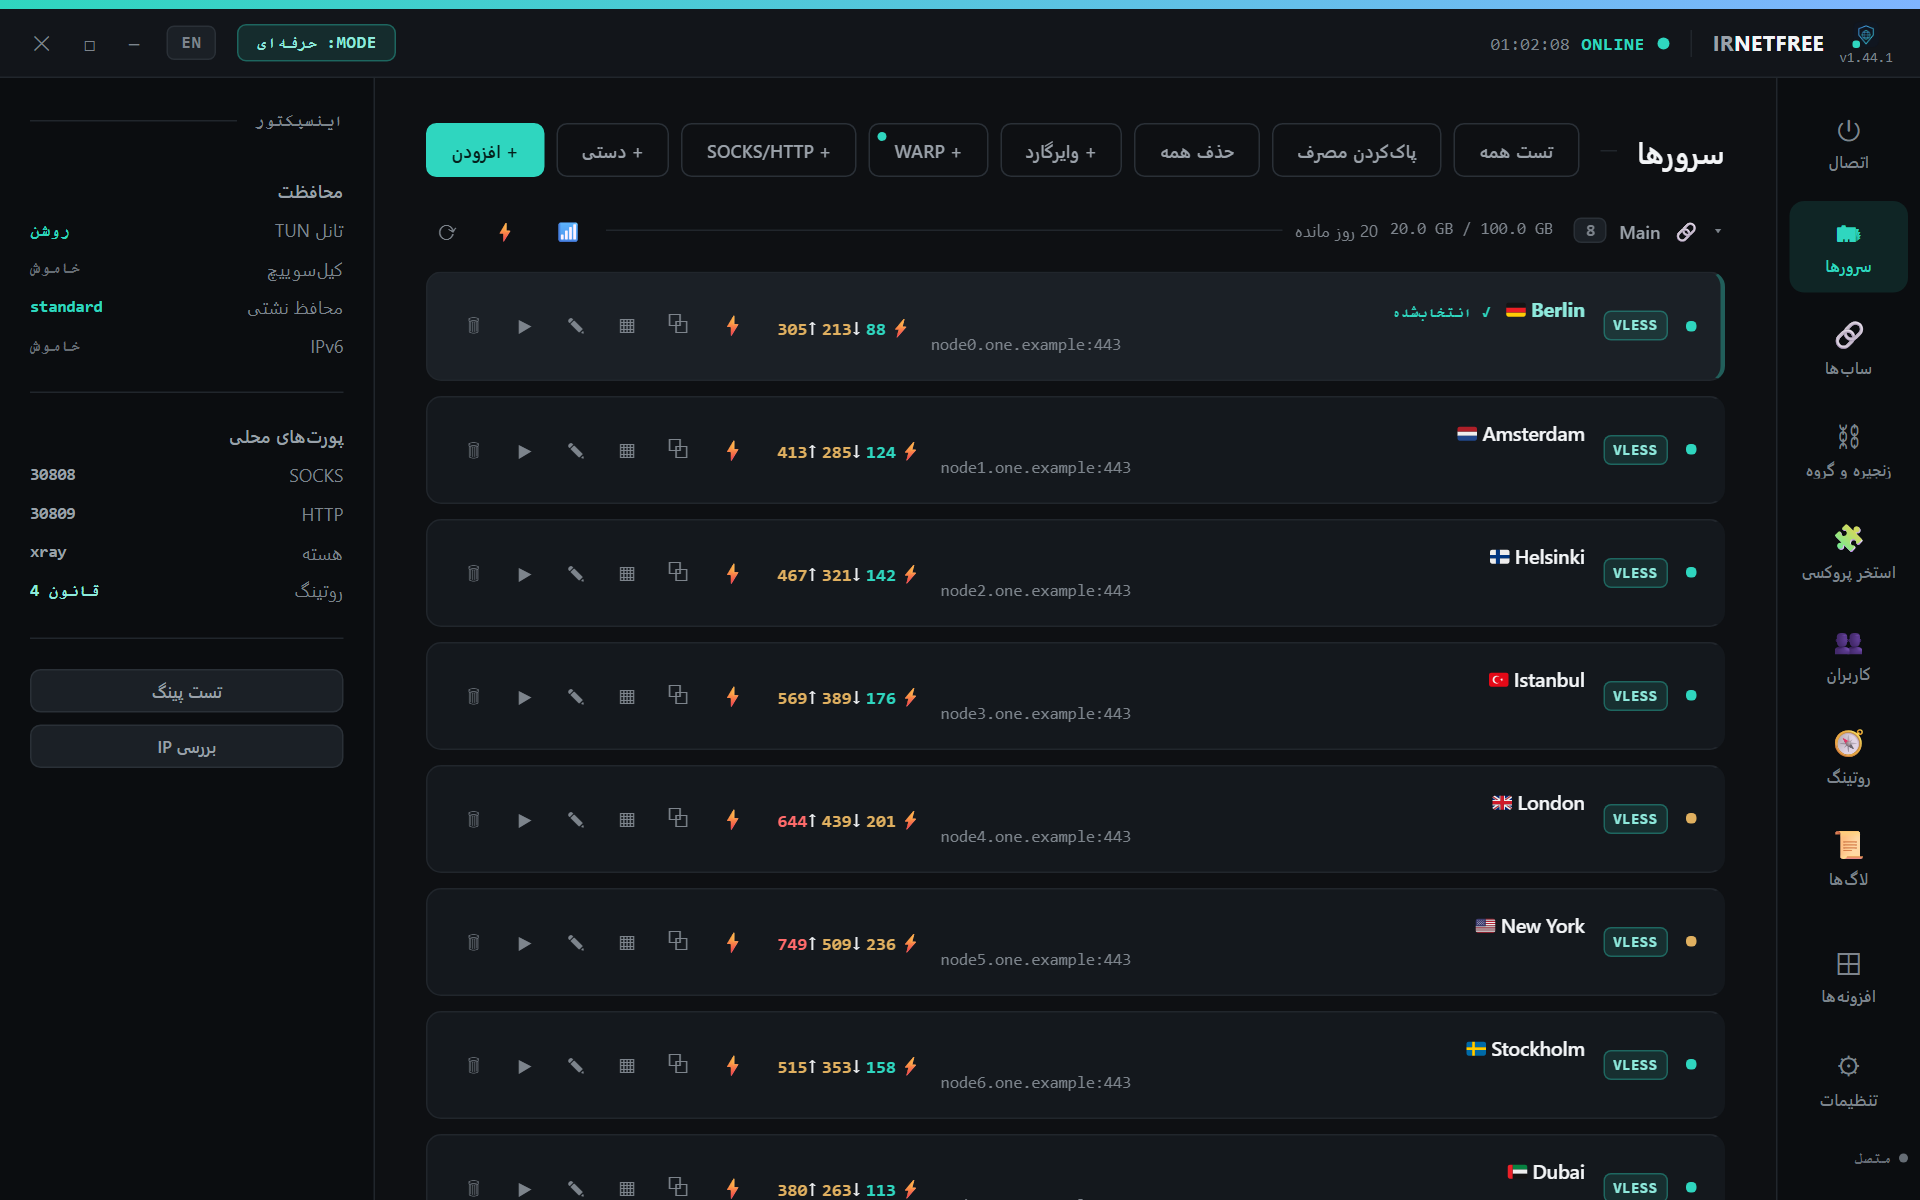
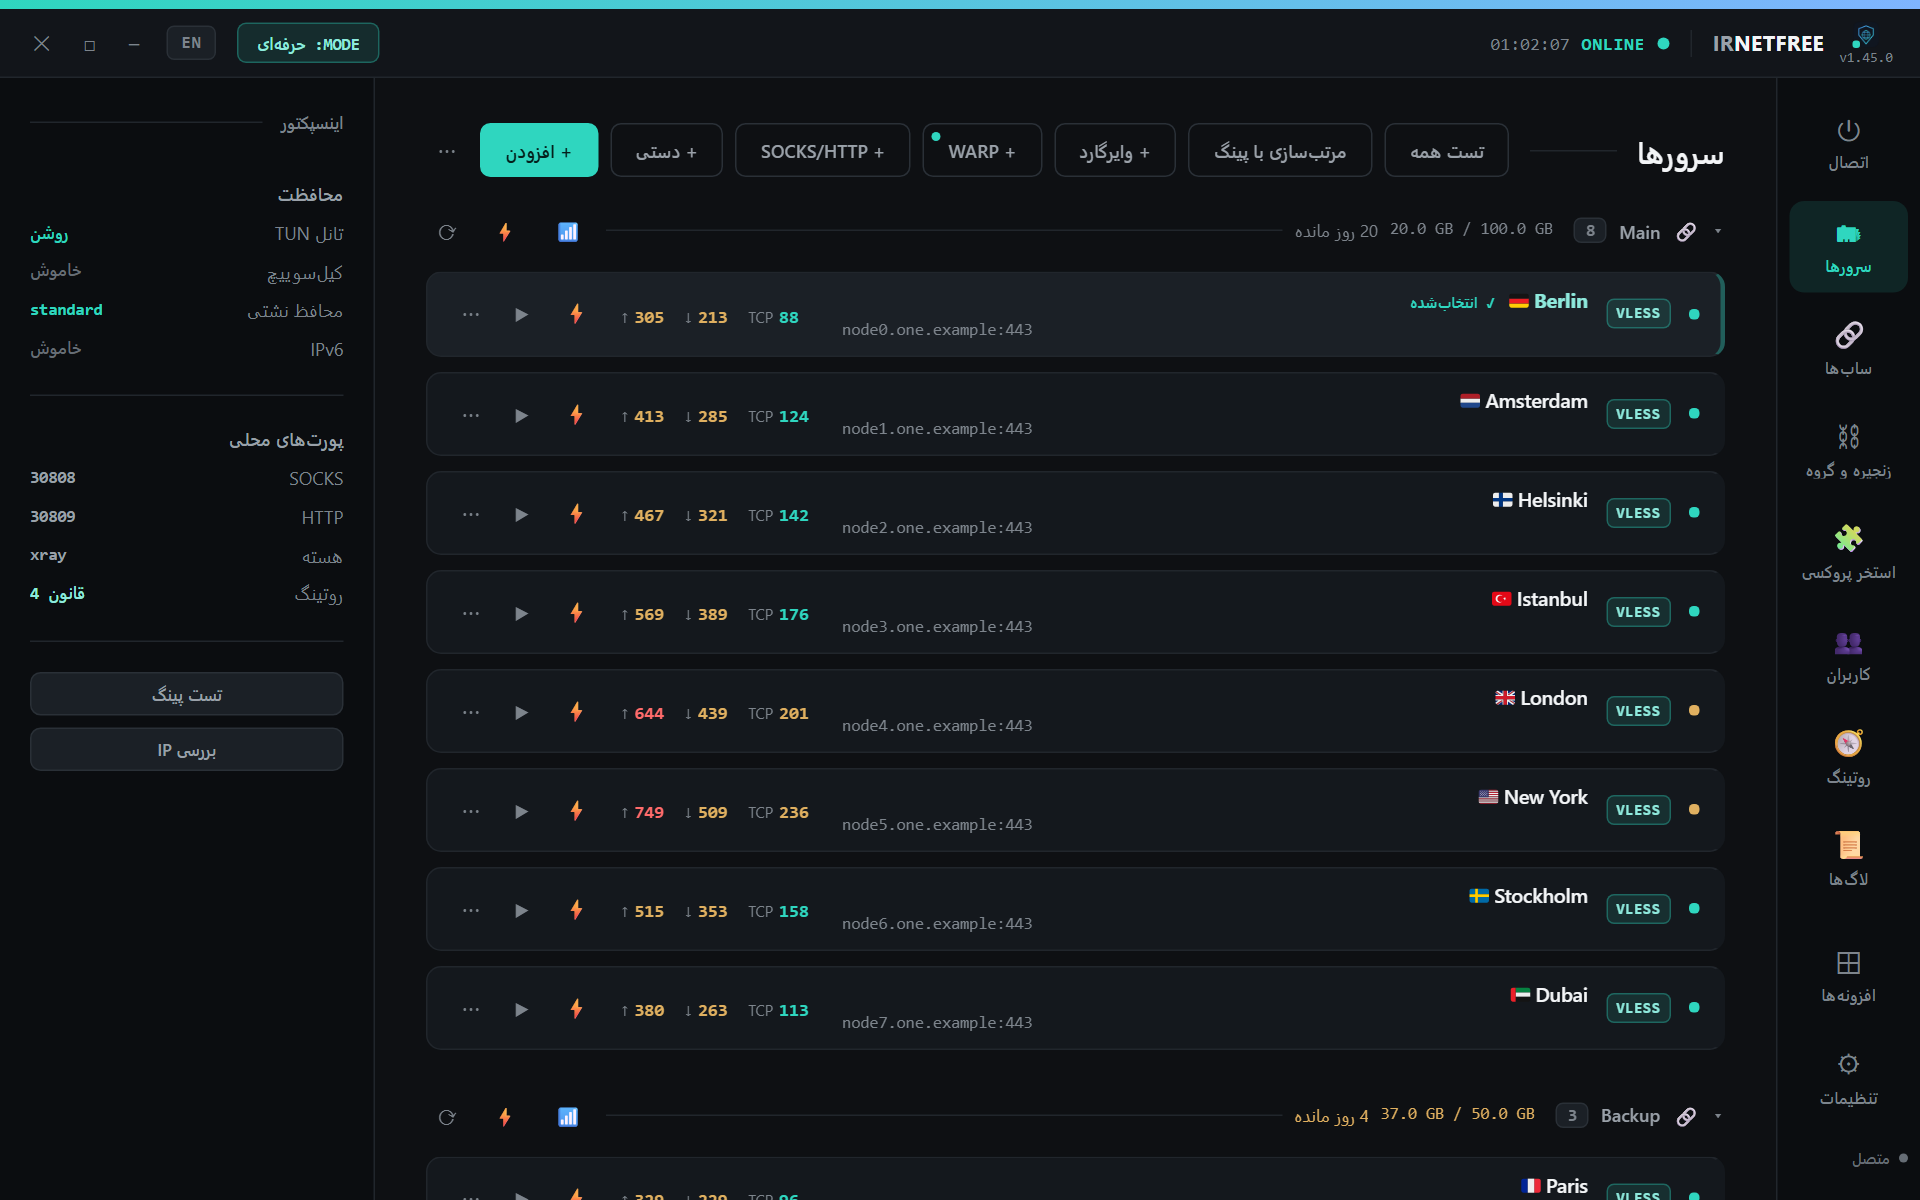
v1.45.0: the link rules match Android's, what a panel can link to is in the guide and README, the pictures show the new rows

diff --git a/src/main/deepLink.js b/src/main/deepLink.js
@@ -7,6 +7,9 @@
  *   irnetfree://import/<percent-encoded>   one subscription URL or one config link
  *   irnetfree://import?url=<…>&name=<…>    the same, with a name for the subscription
  *
+ * In the first form everything after import/ is the text, so a query the sender
+ * left unencoded stays the link's own.
+ *
  * Any web page can make a browser open one of these, so nothing here acts on it:
  * this only says what it is. The window asks before anything is written, and
  * nothing ever connects. Android's core/DeepLink.kt has the same rules and cases.
@@ -15,6 +18,7 @@ const { isHttpProxyLink } = require('./parser');
 
 const PROTOCOL = 'irnetfree';
 const MAX_TEXT = 8192;
+const MAX_NAME = 60;
 /** A routing share link carries its servers and profile in the one line. */
 const MAX_ROUTING = 65536;
 const CONFIG_SCHEMES = new Set(['vless', 'vmess', 'trojan', 'ss', 'socks', 'socks5', 'wireguard', 'wg', 'tuic', 'anytls', 'hysteria2', 'hy2']);
@@ -27,23 +31,24 @@ function decode(s) {
 function remarkOf(text) {
   const i = text.indexOf('#');
   if (i === -1) return '';
-  return (decode(text.slice(i + 1)) || '').trim().slice(0, 80);
+  return (decode(text.slice(i + 1)) || '').trim().slice(0, MAX_NAME);
 }
 
 /**
  * What one piece of text is: { kind: 'sub', text, host, name } for a subscription
  * URL, { kind: 'config', text, scheme, name } for a config link, null for anything
- * else (file:, javascript:, several lines, too long, control characters).
+ * else (file:, javascript:, several lines, too long, control characters, an HTTP
+ * proxy link, a scheme with nothing after it).
  */
 function classify(raw, name) {
   const text = String(raw == null ? '' : raw).trim();
   if (!text || text.length > MAX_TEXT || /[\u0000-\u001f\u007f]/.test(text)) return null;
-  const m = /^([a-z][a-z0-9+.-]*):\/\//i.exec(text);
+  const m = /^([a-z][a-z0-9+.-]*):\/\/\S/i.exec(text);
   if (!m) return null;
   const scheme = m[1].toLowerCase();
-  const given = String(name == null ? '' : name).trim().slice(0, 80);
+  const given = String(name == null ? '' : name).trim().slice(0, MAX_NAME);
   if (scheme === 'http' || scheme === 'https') {
-    if (isHttpProxyLink(text)) return { kind: 'config', text, scheme: 'http', name: given || remarkOf(text) };
+    if (isHttpProxyLink(text)) return null;
     let host = '';
     try { host = new URL(text).hostname; } catch { return null; }
     return host ? { kind: 'sub', text, host, name: given } : null;
@@ -69,9 +74,8 @@ function parseDeepLink(url) {
   }
   const path = /^irnetfree:\/\/import\/(.+)$/i.exec(s);
   if (!path) return null;
-  const named = /[?&]name=([^&?]*)$/i.exec(path[1]);
-  const body = decode(named ? path[1].slice(0, named.index) : path[1]);
-  return body == null ? null : classify(body, named ? decode(named[1]) : '');
+  const body = decode(path[1]);
+  return body == null ? null : classify(body);
 }
 
 /** The link among a launch's arguments: Windows and Linux hand it to a new process that way. */

diff --git a/tests/deepLink.test.js b/tests/deepLink.test.js
@@ -26,8 +26,9 @@ test('a subscription: by path or by query, with its host and only that to show',
 test('a subscription can bring its name', () => {
   const url = 'https://sub.example.com/a';
   assert.equal(parseDeepLink(`irnetfree://import?url=${enc(url)}&name=${enc('My panel')}`).name, 'My panel');
-  assert.equal(parseDeepLink(`irnetfree://import/${enc(url)}?name=${enc('My panel')}`).name, 'My panel');
-  assert.equal(parseDeepLink(`irnetfree://import/${enc(url)}?name=${enc('My panel')}`).text, url);
+  assert.equal(parseDeepLink(`irnetfree://import?url=${enc(url)}&name=${enc('x'.repeat(90))}`).name.length, 60);
+  // after import/ it is all the text: a query the sender left unencoded is the link's own
+  assert.equal(parseDeepLink('irnetfree://import/vless://a@b.example:1?type=ws&name=x').text, 'vless://a@b.example:1?type=ws&name=x');
 });
 
 test('a config link of every scheme the app reads, named by its remark', () => {
@@ -41,11 +42,9 @@ test('a config link of every scheme the app reads, named by its remark', () => {
   }
 });
 
-test('an HTTP proxy link is a config, not a subscription URL (parser.isHttpProxyLink)', () => {
-  const got = parseDeepLink(`irnetfree://import/${enc('http://user:pass@proxy.example:8080#P')}`);
-  assert.equal(got.kind, 'config');
-  assert.equal(got.scheme, 'http');
-  assert.equal(got.name, 'P');
+test('an HTTP proxy link is no subscription (parser.isHttpProxyLink), and not among what a link may bring', () => {
+  assert.equal(parseDeepLink(`irnetfree://import/${enc('http://user:pass@proxy.example:8080#P')}`), null);
+  assert.equal(parseDeepLink(`irnetfree://import/${enc('vless://')}`), null, 'a scheme with nothing after it');
 });
 
 test('a routing share link goes through unchanged, to its own preview', () => {

diff --git a/docs/releases/v1.45.0.md b/docs/releases/v1.45.0.md
@@ -1,0 +1,47 @@
+# v1.45.0 — Safer deletes, a cleaner list, and links that open with the app
+
+By the version rule: new capabilities (links that open the app, the next config), so the second number goes up.
+
+## What the owner asked
+
+From a look at the app as a new user meets it, he chose seven of the proposals: «1و2و3و4و5و7و9 رو بساز بره». Left out on his call: a simpler Home in simple mode, and a warning before a subscription runs out.
+
+## What is new
+
+**1. Deleting (desktop, router).** "Delete all" sat beside "Test all" and emptied every server and chain with no question. It now asks, and sits in the toolbar's ⋯ menu. Removing a subscription asks too. Deleting one server takes effect at once and offers Undo for 12 seconds, which puts back the server, its place in each chain, its last test and the selection. Android already asked first.
+
+**2. An empty Home (desktop, router).** With nothing to connect to, Home shows what to do and two buttons, not a ring and empty figures.
+
+**3. Persian text (desktop, router).** `--mono` labels fell through to Cascadia Mono's monospaced Persian, with letter-spacing on top, which broke words apart. Persian now takes the UI font and sits tight, and Latin stays monospaced. Digits are one kind: the strings, counts and dates that used Persian digits now use Latin, as every other number in the app did. Android's strings are unchanged.
+
+**4. Sort by ping (all three).** A toggle shows each group fastest first: real delay, then TCP, then untested in their order, then what failed. It is a view and the stored order never moves, and the list moves once, when a test is over. A refresh that moves a server to another address or port now drops its old test, which described somewhere else.
+
+**5. Compact rows (desktop, router).** A row went from about 82 px to 57. Test and connect stay in plain sight, and edit, copy, QR and delete moved to a ⋯ menu, so delete is no longer beside connect. The figures read `TCP 88`, `↓ 213`, `↑ 305`, and ⚡ now only means "test".
+
+**7. Links open with the app (desktop, Android).**
+- `irnetfree://import/<percent-encoded>` and `irnetfree://import?url=<…>&name=<…>` bring one subscription or one config. `irnetfree://routing/…` opens its existing preview.
+- On Android, `vless://` and the other config links open with the app too, and text can be shared to it.
+- Any web page can make a browser open such a link. So the app always asks first, showing a subscription's host and not its secret path. Nothing is saved before that, and nothing ever connects.
+
+**9. The next config (all three).** When a connect fails on a plain server, a button offers the next one: the same subscription first, then the rest; the fastest measured, then untested in list order, then what failed its test. The round never repeats a config until the user chooses for themselves.
+
+## Limits
+
+- On Windows the app runs as administrator, so opening a link may show a UAC prompt.
+- A protocol registration stays in the user's registry after an uninstall.
+- Android keeps its Persian digits and its own row layout. Those two items were about the desktop's page.
+- Links do not reach the router or the headless server, which have no OS handler to receive them.
+- On a panel that shuffles a country's slots between IPv4 and IPv6, the next config can be either kind: its name says which.
+
+## Tested
+
+- `npm test`: tests/deepLink.test.js (every accepted form, what is refused, and that asking comes first), tests/desktopUx.test.js (sort order, moved servers, next config, the button's states, delete and Undo with the real handlers' shape, the menus, the empty Home, Persian labels).
+- Android JVM tests in CI: DeepLinkTest with the same cases, NextConfigTest, ServerGroupsTest.
+- The real page and the headless server in headless Chrome, with a test panel: empty Home and its buttons, the row and toolbar menus staying inside the window and closing, the sort, delete and Undo reaching the store, the button after a failure, and both languages.
+
+## Owed
+
+Nothing here ran in the real desktop shell or on a phone. Owed on a device:
+- Windows, macOS and Linux: open an `irnetfree://import/…` link from a browser, with the app closed and with it running, elevated on Windows.
+- Android: open a `vless://` link and Share to the app; check the back button after a link, and a link arriving while the QR scanner is open.
+- A connect that really fails, for the next-config button end to end.

diff --git a/README.md b/README.md
@@ -122,7 +122,8 @@ curl -fsSL https://raw.githubusercontent.com/sadrazkh/Irnetfree_xray-client/main
 - **فقط با sing-box:** TUIC و AnyTLS
 - **MASQUE و WARP:** ثبتنام WARP در خود برنامه، WARP+ با کلید، و WARP پشت یک سرور در چین
 - **کانفیگ JSON:** کانفیگ کامل Xray و sing-box
-- **وارد کردن:** لینک، چند لینک با هم، base64، لینک ساب، فایل `.conf` وایرگارد، فرم دستی، Ctrl+V، و اسکن QR در اندروید
+- **وارد کردن:** لینک، چند لینک با هم، base64، لینک ساب، فایل `.conf` وایرگارد، فرم دستی، Ctrl+V، و اسکن QR و Share در اندروید
+- **باز شدن با برنامه:** [لینک `irnetfree://`](GUIDE.md#-دکمهی-افزودن-به-irnetfree-برای-پنل) از پنل یا سایت، با تأیید تو
 - **اشتراکگذاری:** لینک و QR برای هر کانفیگ
 - **ویرایشگر:** حالت ساده و حرفهای، با تنظیم Mux برای هر سرور
 
@@ -152,6 +153,7 @@ curl -fsSL https://raw.githubusercontent.com/sadrazkh/Irnetfree_xray-client/main
 <summary><b>🔗 ساباسکریپشن</b></summary>
 
 - بهروزرسانی دستی و خودکار، با نوار حجم و زمان باقیمانده
+- مرتبسازی کانفیگها با پینگ، و دکمهی «کانفیگ بعدی» وقتی اتصال نشد
 - گروهبندی و جمعکردن هر ساب، و ⚡ پیدا کردن سریعترین کانفیگ در هر ساب
 - کانفیگ انتخابی، چین، روتینگ و گروه با بهروزرسانی ساب سر جایشان میمانند، حتی اگر پنل آدرسها را بچرخاند
 - ویرایشهای خودت روی کانفیگ حفظ میشوند

diff --git a/GUIDE.md b/GUIDE.md
@@ -195,6 +195,21 @@ ss://...#Shadowsocks-1
 
 > با حذف یک ساب، سرورهای متعلق به آن هم پاک میشوند؛ سرورهایی که دستی اضافه کردهاید دستنخورده میمانند.
 
+### 🔗 دکمهی «افزودن به IRNetFree» برای پنل
+
+از نسخهی ۱.۴۵.۰، لینکهای `irnetfree://` با خود برنامه باز میشوند. پنل یا سایت میتواند چنین لینکی بسازد:
+
+```
+irnetfree://import/<لینک ساب یا کانفیگ، percent-encoded>
+irnetfree://import?url=<لینک، percent-encoded>&name=<نام ساب، percent-encoded>
+```
+
+- برنامه **همیشه اول میپرسد** و نشان میدهد چه چیزی اضافه میشود: برای ساب فقط دامنه را نشان میدهد، نه آدرس محرمانه را. تا تأیید نکنی چیزی ذخیره نمیشود و هیچوقت خودش وصل نمیشود.
+- فقط لینک ساب `http(s)` و کانفیگهای `vless`، `vmess`، `trojan`، `ss`، `socks`، `socks5`، `wireguard`، `wg`، `tuic`، `anytls`، `hysteria2` و `hy2` پذیرفته میشوند.
+- لینک `irnetfree://routing/…` هم با پیشنمایش خودش باز میشود.
+- در ویندوز برنامه با دسترسی ادمین اجرا میشود، پس باز شدن لینک ممکن است پنجرهی UAC نشان دهد.
+- در اندروید لینکهای `vless://` و بقیه هم با برنامه باز میشوند، و میتوانی متن را از هر برنامهای با **Share** به IRNetFree بفرستی.
+
 ---
 
 ## 🧬 دو هستهی Xray (Cores)

diff --git a/README.en.md b/README.en.md
@@ -114,7 +114,8 @@ The same interface comes up on a web port, and you reach it over SSH. [Details](
 - **On sing-box only:** TUIC and AnyTLS
 - **MASQUE and WARP:** WARP sign-up in the app, WARP+ with a key, and WARP behind a server in a chain
 - **JSON configs:** full Xray and sing-box configs
-- **Import:** a link, many links, base64, a subscription URL, a WireGuard `.conf` file, a manual form, Ctrl+V, and QR scanning on Android
+- **Import:** a link, many links, base64, a subscription URL, a WireGuard `.conf` file, a manual form, Ctrl+V, and QR scanning and Share on Android
+- **Opens with the app:** an [`irnetfree://` link](GUIDE.md#-دکمهی-افزودن-به-irnetfree-برای-پنل) from a panel or site, after you confirm. `irnetfree://import/<percent-encoded link>` or `irnetfree://import?url=<…>&name=<…>`
 - **Share:** a link and QR code for every config
 - **Editor:** simple and pro modes, with Mux per server
 
@@ -144,6 +145,7 @@ The same interface comes up on a web port, and you reach it over SSH. [Details](
 <summary><b>🔗 Subscriptions</b></summary>
 
 - Manual and automatic refresh, with bars for data used and time left
+- Sort configs by ping, and a "next config" button when a connect fails
 - Grouped and foldable by subscription, with ⚡ to find the fastest config in each
 - Your selection, chains, routing and groups stay in place through a refresh, even when the panel rotates addresses
 - Your own edits to a config are kept
